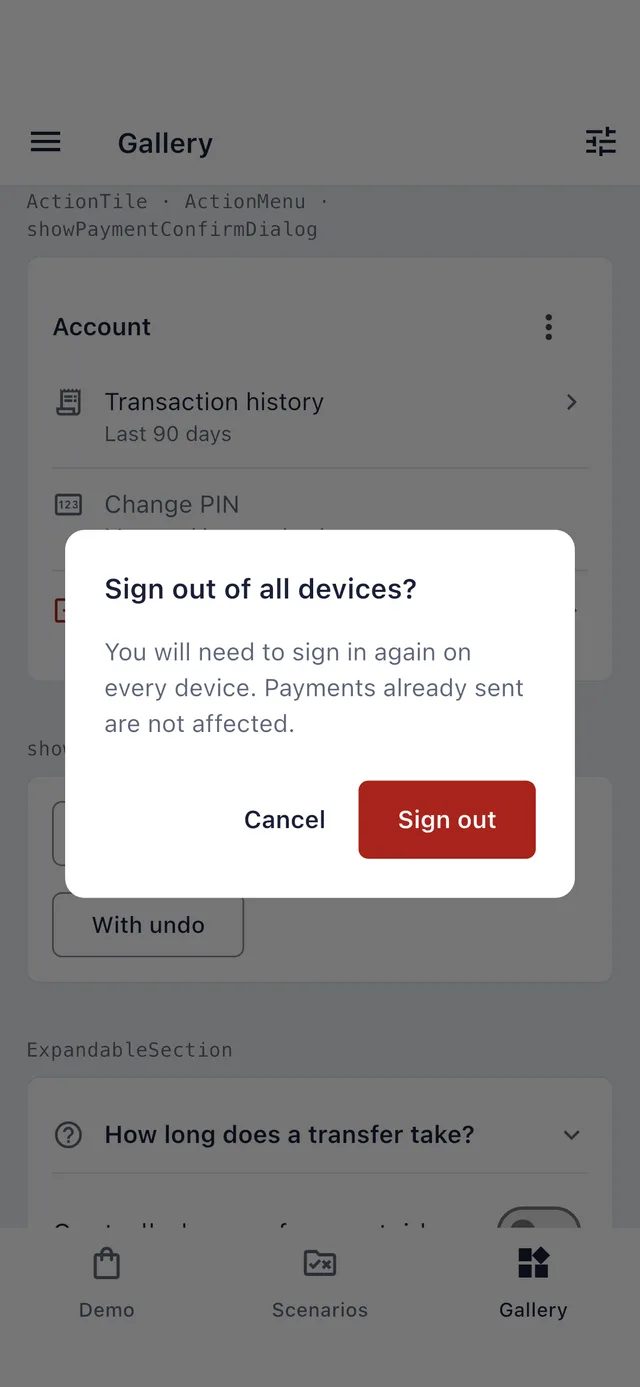
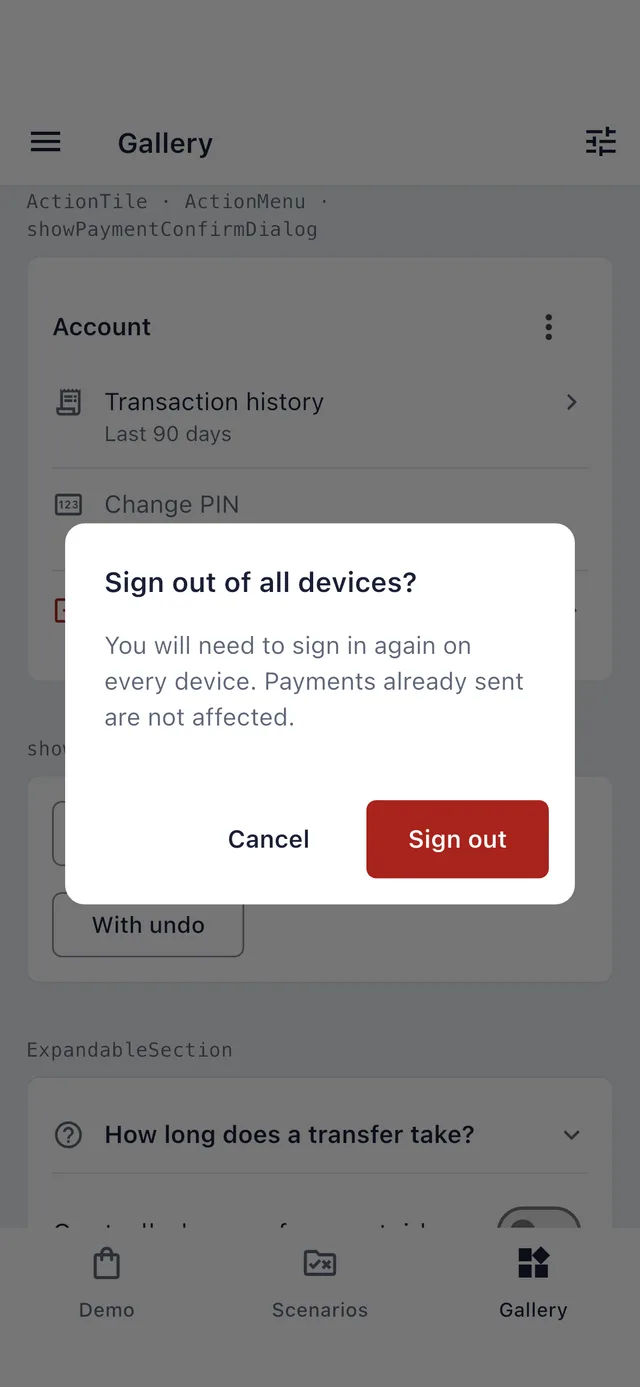
docs: finish phase 2B native proof and variant captures

Changed region(s): [[0.0938, 0.558, 0.9062, 0.651], [0.0938, 0.372, 0.9062, 0.434], [0.1562, 0.465, 0.8125, 0.527]]

diff --git a/example/integration_test/catalog_screenshots_test.dart b/example/integration_test/catalog_screenshots_test.dart
@@ -196,11 +196,19 @@ void main() {
     await shot('capture_selfie_200');
     await open('Interaction');
     await top('ActionTile · ActionMenu · showPaymentConfirmDialog');
-    await tester.tap(find.byTooltip('More actions'));
-    await settle(tester);
-    await tapVisible(tester, find.text('Sign out everywhere'));
+    // A longer host label exercises overflow at 200% on this iPhone width.
+    final confirmation = showPaymentConfirmDialog(
+      tester.element(find.byType(ActionTileGroup).first),
+      title: 'Sign out of all devices?',
+      message:
+          'You will need to sign in again on every device. Payments already sent are not affected.',
+      confirmLabel: 'Sign out everywhere',
+      destructive: true,
+    );
     await shot('confirm_dialog_200');
     await tapVisible(tester, find.text('Cancel'));
+    expect(await confirmation, isFalse);
+    await settle(tester);
     app.updateSettings(const DemoSettings(locale: Locale('en')));
     await settle(tester);
     await open('Controls');
@@ -221,6 +229,17 @@ void main() {
     await settle(tester);
 
     await open('Foundation');
+    tester
+        .state<ScrollableState>(
+          find
+              .descendant(
+                of: find.byType(ListView),
+                matching: find.byType(Scrollable),
+              )
+              .first,
+        )
+        .position
+        .jumpTo(0);
     await shot('foundation');
 
     await open('Interaction');

diff --git a/docs/decisions.md b/docs/decisions.md
@@ -258,10 +258,10 @@ Plan correction: the suggested literal English reapproval sentence did not match
 - Dialog overflow goes up, so Confirm stacks above Cancel with 8 dp spacing. At 320 dp this also stacks at 100%. Destructive initial focus is Cancel.
 - Total amounts use heading weight, preserving w600 under hosts with w700 amountWeight. The five variants reproduce the existing merges. Countdown defaults to label plus tabular figures.
 - D27 applies to Button only here; choices/tabs and the full dialog variants specimen remain Phase 6. The 200% confirm capture fixture is included.
-- Native proof retains the Phase 2A device-support blocker. Capture registration/fixtures are prepared; new embeds, webp updates, deletion of old button captures, regression-set pixel comparisons and native flow proof remain pending. Existing committed captures are preserved to avoid breaking published pages.
+- Native proof completed on iPhone 16 / iOS 18.1: all three screenshot suites and all 14 flow tests pass. Inspected button states/sizes/focus, all five amount roles and both dialog layouts. The 200% dialog uses the longer host label "Sign out everywhere" to exercise stacking on this iPhone. Foundation capture explicitly resets its retained scroll position; the new amount specimen appears below its unchanged original section. New WebP assets replace the old button captures.
 
 Plan correction from dialog geometry: stock AlertDialog action padding and per-button padding stacked 112 dp actions even at 393 dp. Use token-based 16 dp actions padding and 4 dp per-button horizontal padding to retain an 8 dp horizontal gap and fit the two actions on the normal iPhone width. The narrow/200% layout still stacks with an 8 dp vertical gap.
 
-Phase 2B element counts on the same workload: history: 862, confirmation: 410, intro: 347. MinTapTarget adds one centered render wrapper per button. It has no LayoutBuilder, speculative remeasurement or new timers; the literal no-added-layout-pass target is not claimed because the hit-area wrapper performs layout. Native frame-time proof is blocked.
+Phase 2B element counts on the same workload: history: 862, confirmation: 410, intro: 347. MinTapTarget adds one centered render wrapper per button. It has no LayoutBuilder, speculative remeasurement or new timers; the literal no-added-layout-pass target is not claimed because the hit-area wrapper performs layout. Frame times were not benchmarked in this screenshot/flow task; no frame-time improvement is claimed. The existing bounded render-wrapper cost is unchanged.
 
 Analyzer correction: MinTapTarget.updateRenderObject accepts RenderObject and casts internally. Exposing the private render class in its public method produced library_private_types_in_public_api; the internal rendering behavior is unchanged.
